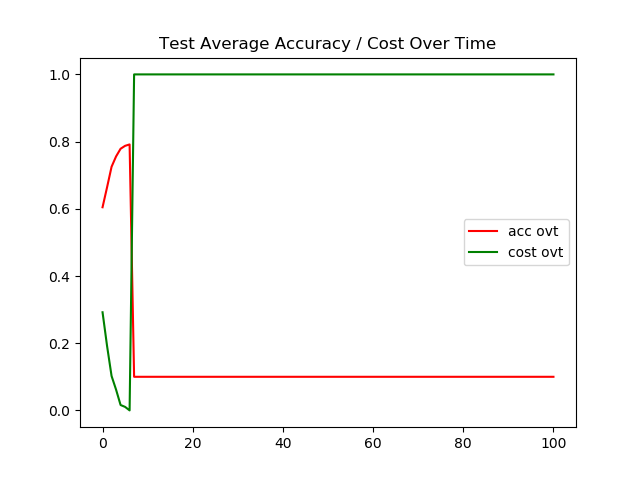
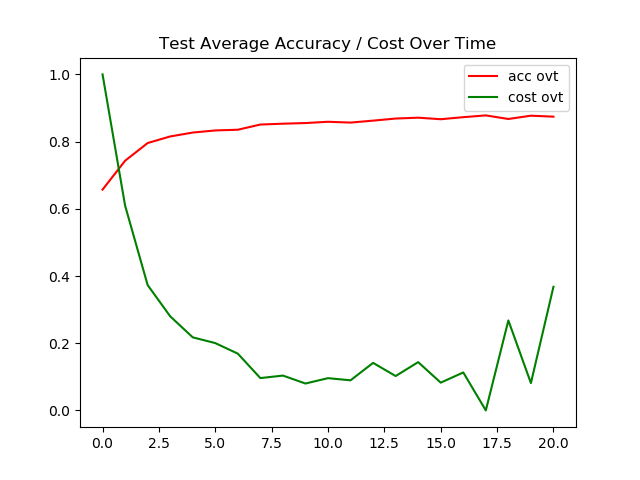
SOM

diff --git a/NeuralNetwork/selective/f_adversal.py b/NeuralNetwork/selective/f_adversal.py
@@ -140,16 +140,16 @@ print(test_batch.shape)
 print(test_label.shape)
 
 # hyper parameter
-num_epoch = 21  
+num_epoch = 51  
 batch_size = 50
 print_size = 1
 beta1,beta2,adam_e = 0.9,0.9,1e-9
 
 learning_rate = 0.00025
-learnind_rate_decay = 0.01
+learnind_rate_decay = 0.09
 
 proportion_rate = 0.00001
-decay_rate = 1
+decay_rate = 0.09
 
 # define class
 channel_size = 164
@@ -172,7 +172,7 @@ y = tf.placeholder(shape=[None,10],dtype=tf.float32)
 iter_variable = tf.placeholder(tf.float32, shape=())
 learning_rate_dynamic  = tf.placeholder(tf.float32, shape=())
 learning_rate_change = learning_rate_dynamic * (1.0/(1.0+learnind_rate_decay*iter_variable))
-decay_dilated_rate   = proportion_rate       
+decay_dilated_rate   = proportion_rate       * (1.0/(1.0+learnind_rate_decay*iter_variable))
 
 droprate1 = tf.placeholder(tf.float32, shape=())
 droprate2 = tf.placeholder(tf.float32, shape=())
@@ -221,7 +221,7 @@ grad_update = grad9_up + grad8_up+ grad7_up + grad6_up + grad5_up + grad4_up + g
 # ===== manual ====
 
 # ====== adversal input ==========
-adversal_x = x + 0.08 * tf.sign(grad1)
+adversal_x = x + 0.008 * tf.sign(grad1) * (1.0/(1.0+decay_rate*iter_variable))
 
 layer1_ad = l1.feedforward(adversal_x,droprate=droprate1)
 layer2_ad = l2.feedforward(layer1_ad,droprate=droprate2)
@@ -276,10 +276,10 @@ with tf.Session() as sess:
 
         train_batch,train_label = shuffle(train_batch,train_label)
 
-        lower_bound = 0.5 * (iter+1)/num_epoch
-        random_drop1 = np.random.uniform(low=0.9+lower_bound,high=1.0)
-        random_drop2 = np.random.uniform(low=0.9+lower_bound,high=1.0)
-        random_drop3 = np.random.uniform(low=0.9+lower_bound,high=1.0)
+        lower_bound = 0.075 * (iter+1)/num_epoch
+        random_drop1 = np.random.uniform(low=0.925+lower_bound,high=1.000000000000001)
+        random_drop2 = np.random.uniform(low=0.925+lower_bound,high=1.000000000000001)
+        random_drop3 = np.random.uniform(low=0.925+lower_bound,high=1.000000000000001)
 
         for batch_size_index in range(0,len(train_batch),batch_size//2):
             current_batch = train_batch[batch_size_index:batch_size_index+batch_size//2]
@@ -287,17 +287,17 @@ with tf.Session() as sess:
 
             # data aug
             seq = iaa.Sequential([  
-                iaa.Sometimes(0.1 + lower_bound ,
+                iaa.Sometimes(  (0.1 + lower_bound * 6) ,
                     iaa.Affine(
                         translate_percent={"x": (-0.2, 0.2), "y": (-0.2, 0.2)},
                     )
                 ),
-                iaa.Sometimes(0.2 + lower_bound,
+                iaa.Sometimes( (0.2 + lower_bound * 6),
                     iaa.Affine(
                         rotate=(-25, 25),
                     )
                 ),
-                iaa.Sometimes(0.1 + lower_bound,
+                iaa.Sometimes( (0.1 + lower_bound * 6),
                     iaa.Affine(
                         scale={"x": (0.8, 1.2), "y": (0.8, 1.2)},
                     )
@@ -317,10 +317,10 @@ with tf.Session() as sess:
 
             if iter % 2 == 0:
                 sess_result = sess.run([cost,accuracy,correct_prediction,grad_update],feed_dict={x:current_batch,y:current_batch_label,
-                iter_variable:iter,learning_rate_dynamic:learning_rate,droprate1:1.0,droprate2:1.0,droprate3:1.0})
+                iter_variable:iter,learning_rate_dynamic:learning_rate,droprate1:random_drop1,droprate2:random_drop2,droprate3:random_drop3})
             else:
                 sess_result = sess.run([cost_ad,accuracy_ad,correct_prediction_ad,grad_update_ad,adversal_x],feed_dict={x:current_batch,y:current_batch_label,
-                iter_variable:iter,learning_rate_dynamic:learning_rate,droprate1:1.0,droprate2:1.0,droprate3:1.0})
+                iter_variable:iter,learning_rate_dynamic:learning_rate,droprate1:random_drop1,droprate2:random_drop2,droprate3:random_drop3})
 
             print("Current Iter : ",iter, " current batch: ",batch_size_index, ' Current cost: ', sess_result[0],
             ' Current Acc: ', sess_result[1],end='\r')
@@ -340,7 +340,7 @@ with tf.Session() as sess:
 
         if iter % print_size==0:
             print("\n---------- Learning Rate : ", learning_rate * (1.0/(1.0+learnind_rate_decay*iter)) )
-            print("Lower Bound : ",lower_bound,' Random  Lower: ',lower_bound ,
+            print("Lower Bound : ",lower_bound,' Drop Lower: ',0.95+lower_bound ,' Random Image :',lower_bound * 6, 
             '\n',"Drop 1 : ",random_drop1," Drop 2: ",random_drop2," Drop 3: ",random_drop3)
             
             print('Train Current cost: ', train_cota/(len(train_batch)/(batch_size//2)),' Current Acc: ', 
@@ -350,8 +350,8 @@ with tf.Session() as sess:
             test_acca/(len(test_batch)/batch_size),end='\n')
             print("----------")
 
-        train_acc.append(train_acca/(len(train_batch)/batch_size))
-        train_cot.append(train_cota/(len(train_batch)/batch_size))
+        train_acc.append(train_acca/(len(train_batch)/batch_size//2))
+        train_cot.append(train_cota/(len(train_batch)/batch_size//2))
         test_acc.append(test_acca/(len(test_batch)/batch_size))
         test_cot.append(test_cota/(len(test_batch)/batch_size))
         test_cota,test_acca = 0,0
